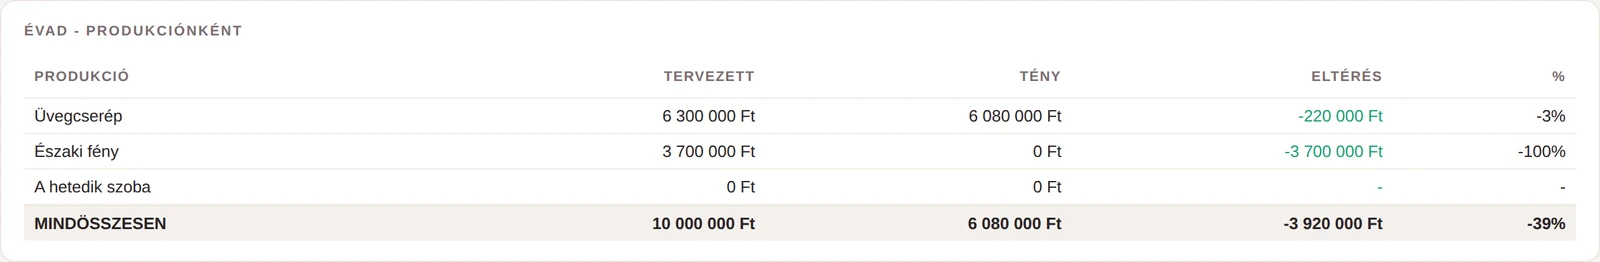
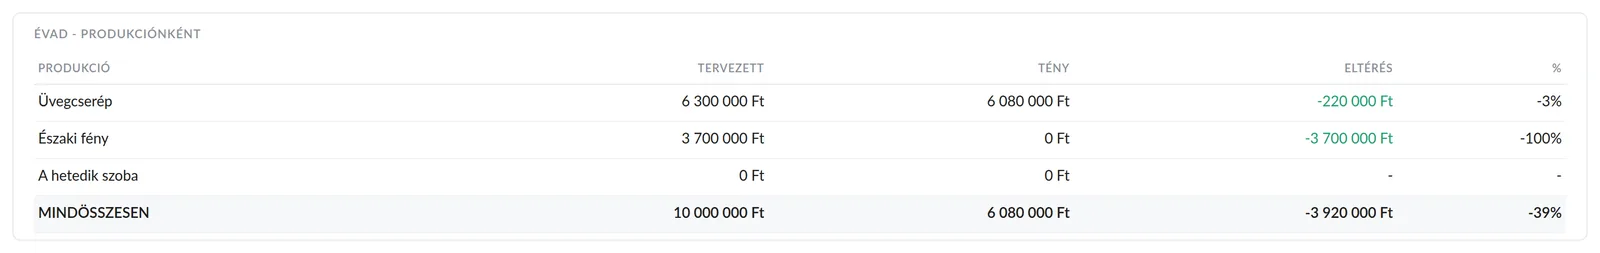
Callboard demo kepek: helyes Lato betutipus, nem rendszer-fontkeszlet
Andras jelezte: a callboard demo kepeknek a valodi Callboard kinezetet
kell tukrozniuk (csak a radnotis azonositok tunnek el, minden mas
marad), a betutipus ehhez kepest teljesen mas volt.

Az uj mockupok (01/02/03/06/07-es kepek) rendszer-UI fontkeszletet
hasznaltak (-apple-system/Segoe UI/Roboto). A radnoti-callboard repo
sajat CSS-e szerint (src/00_fej.html) a valodi alkalmazas mindenhol
Lato-t hasznal (--sans/--serif/--mono is ugyanarra a Lato-ra mutat).
Athoztam a repo sajat Lato woff2 fajljait (400/500/600/700) a
mockupokba, es a font-family-t erre allitottam.

A callboard_04/05 kepek (koltsegkeret-figyelo, koltseg produkcionkent)
egy korabbi menetben ugyancsak rendszer-fonttal keszultek, ezert azokat
is ujraepitettem Lato-val, valtozatlan tartalommal (Uvegcserep/Eszaki
feny/A hetedik szoba, kitalalt osszegek).

A kepek merete kismertekben valtozott az uj rendereles miatt, a
callboard.html/en/callboard.html width/height attributumai frissultek.

Ellenorizve: mind a 7 kep 200-as valaszt ad mindket nyelvi oldalon,
nincs konzolhiba, nincs tulcsordulas.

diff --git a/callboard.html b/callboard.html
@@ -63,12 +63,12 @@
       <p>A stábtag semmit nem telepít. A levélben kapott személyes linkje megnyílik a telefonján, és ha kiteszi a kezdőképernyőjére, attól a pillanattól úgy viselkedik, mint egy alkalmazás.</p>
 
       <figure style="margin-top:24px">
-        <img src="kepek/callboard_01_produkciok.webp" alt="Produkciós áttekintő: hat bemutató, mérföldkövek és összevető idővonal" width="1600" height="874" loading="lazy" style="width:100%">
+        <img src="kepek/callboard_01_produkciok.webp" alt="Produkciós áttekintő: hat bemutató, mérföldkövek és összevető idővonal" width="1600" height="899" loading="lazy" style="width:100%">
         <figcaption>Produkciós áttekintő a demó példányról. Kitalált produkciók, kitalált nevek.</figcaption>
       </figure>
 
       <figure style="margin-top:24px">
-        <img src="kepek/callboard_03_evadterv.webp" alt="CallMemo évadterv: vezetői mérföldkövek területenként, idővonalon" width="1600" height="849" loading="lazy" style="width:100%">
+        <img src="kepek/callboard_03_evadterv.webp" alt="CallMemo évadterv: vezetői mérföldkövek területenként, idővonalon" width="1600" height="852" loading="lazy" style="width:100%">
         <figcaption>CallMemo, a vezetői évadterv. Területenkénti mérföldkövek egy idővonalon.</figcaption>
       </figure>
     </div>
@@ -84,27 +84,27 @@
       <p><strong>Értesítés a telefonra, tartalom nélkül.</strong> Ami a próbatáblán van, az nem megy át idegen szolgáltatók szerverein.</p>
 
       <figure style="margin-top:24px">
-        <img src="kepek/callboard_02_napi_tabla.webp" alt="Próbatábla: próba-idővonal és napi beosztás színpad és próbaterem szerint" width="1600" height="1005" loading="lazy" style="width:100%">
+        <img src="kepek/callboard_02_napi_tabla.webp" alt="Próbatábla: próba-idővonal és napi beosztás színpad és próbaterem szerint" width="1600" height="1008" loading="lazy" style="width:100%">
         <figcaption>Próbatábla a demó példányról. A helyszínek általános elnevezéssel szerepelnek.</figcaption>
       </figure>
 
       <figure style="margin-top:24px">
-        <img src="kepek/callboard_06_eloadasok.webp" alt="Előadások havi nézete, helyszínnel és jelentés-gombbal" width="1600" height="859" loading="lazy" style="width:100%">
+        <img src="kepek/callboard_06_eloadasok.webp" alt="Előadások havi nézete, helyszínnel és jelentés-gombbal" width="1600" height="866" loading="lazy" style="width:100%">
         <figcaption>Havi műsorterv. A helyszín itt is csak Színpad 1./2./3. címkével szerepel.</figcaption>
       </figure>
 
       <figure style="margin-top:24px">
-        <img src="kepek/callboard_04_koltsegkeret.webp" alt="Költségkeret-figyelő: keret, elköltve, maradék, felhasználás százalékban" width="1600" height="191" loading="lazy" style="width:100%">
+        <img src="kepek/callboard_04_koltsegkeret.webp" alt="Költségkeret-figyelő: keret, elköltve, maradék, felhasználás százalékban" width="1600" height="159" loading="lazy" style="width:100%">
         <figcaption>Költségkeret-figyelő az évadra. Kitalált összegek.</figcaption>
       </figure>
 
       <figure style="margin-top:24px">
-        <img src="kepek/callboard_05_koltseg_produkcionkent.webp" alt="Költségek produkciónként: tervezett, tény, eltérés és százalék" width="1600" height="262" loading="lazy" style="width:100%">
+        <img src="kepek/callboard_05_koltseg_produkcionkent.webp" alt="Költségek produkciónként: tervezett, tény, eltérés és százalék" width="1600" height="253" loading="lazy" style="width:100%">
         <figcaption>Produkciónkénti bontás: terv, tény, eltérés. Ami a keretből megmarad, az látszik.</figcaption>
       </figure>
 
       <figure style="margin-top:24px">
-        <img src="kepek/callboard_07_koltsegek_reszletes.webp" alt="Egy produkció részletes költségkerete tételenként: honorárium, jogdíj, díszlet" width="1600" height="996" loading="lazy" style="width:100%">
+        <img src="kepek/callboard_07_koltsegek_reszletes.webp" alt="Egy produkció részletes költségkerete tételenként: honorárium, jogdíj, díszlet" width="1600" height="1024" loading="lazy" style="width:100%">
         <figcaption>Egy produkció részletes költségkerete. Kitalált összegek.</figcaption>
       </figure>
     </div>

diff --git a/en/callboard.html b/en/callboard.html
@@ -63,12 +63,12 @@
       <p>Crew members install nothing. The personal link in their email opens on their phone, and once they add it to the home screen, from that moment it behaves like an app.</p>
 
       <figure style="margin-top:24px">
-        <img src="../kepek/callboard_01_produkciok.webp" alt="Production overview with six premieres, milestones and a comparison timeline" width="1600" height="874" loading="lazy" style="width:100%">
+        <img src="../kepek/callboard_01_produkciok.webp" alt="Production overview with six premieres, milestones and a comparison timeline" width="1600" height="899" loading="lazy" style="width:100%">
         <figcaption>Production overview from the demo instance. Invented productions, invented names.</figcaption>
       </figure>
 
       <figure style="margin-top:24px">
-        <img src="../kepek/callboard_03_evadterv.webp" alt="CallMemo season plan: management milestones by department, on a timeline" width="1600" height="849" loading="lazy" style="width:100%">
+        <img src="../kepek/callboard_03_evadterv.webp" alt="CallMemo season plan: management milestones by department, on a timeline" width="1600" height="852" loading="lazy" style="width:100%">
         <figcaption>CallMemo, the management season plan. Milestones by department on one timeline.</figcaption>
       </figure>
     </div>
@@ -84,27 +84,27 @@
       <p><strong>Push notifications carry no content.</strong> Nothing from the rehearsal schedule passes through third-party servers.</p>
 
       <figure style="margin-top:24px">
-        <img src="../kepek/callboard_02_napi_tabla.webp" alt="Rehearsal schedule: rehearsal timeline and daily assignments by stage and rehearsal room" width="1600" height="1005" loading="lazy" style="width:100%">
+        <img src="../kepek/callboard_02_napi_tabla.webp" alt="Rehearsal schedule: rehearsal timeline and daily assignments by stage and rehearsal room" width="1600" height="1008" loading="lazy" style="width:100%">
         <figcaption>Rehearsal schedule from the demo instance. Venues use generic labels.</figcaption>
       </figure>
 
       <figure style="margin-top:24px">
-        <img src="../kepek/callboard_06_eloadasok.webp" alt="Monthly performance schedule with venue and report button" width="1600" height="859" loading="lazy" style="width:100%">
+        <img src="../kepek/callboard_06_eloadasok.webp" alt="Monthly performance schedule with venue and report button" width="1600" height="866" loading="lazy" style="width:100%">
         <figcaption>Monthly programme. Venues appear only as Stage 1/2/3.</figcaption>
       </figure>
 
       <figure style="margin-top:24px">
-        <img src="../kepek/callboard_04_koltsegkeret.webp" alt="Budget monitor: planned, spent, remaining, percentage used" width="1600" height="191" loading="lazy" style="width:100%">
+        <img src="../kepek/callboard_04_koltsegkeret.webp" alt="Budget monitor: planned, spent, remaining, percentage used" width="1600" height="159" loading="lazy" style="width:100%">
         <figcaption>Season budget monitor. Invented figures.</figcaption>
       </figure>
 
       <figure style="margin-top:24px">
-        <img src="../kepek/callboard_05_koltseg_produkcionkent.webp" alt="Costs per production: planned, actual, variance and percentage" width="1600" height="262" loading="lazy" style="width:100%">
+        <img src="../kepek/callboard_05_koltseg_produkcionkent.webp" alt="Costs per production: planned, actual, variance and percentage" width="1600" height="253" loading="lazy" style="width:100%">
         <figcaption>Per-production breakdown: planned, actual, variance. What is left over is visible.</figcaption>
       </figure>
 
       <figure style="margin-top:24px">
-        <img src="../kepek/callboard_07_koltsegek_reszletes.webp" alt="Detailed line-item budget for one production: fees, rights, set" width="1600" height="996" loading="lazy" style="width:100%">
+        <img src="../kepek/callboard_07_koltsegek_reszletes.webp" alt="Detailed line-item budget for one production: fees, rights, set" width="1600" height="1024" loading="lazy" style="width:100%">
         <figcaption>Detailed line-item budget for one production. Invented figures.</figcaption>
       </figure>
     </div>
